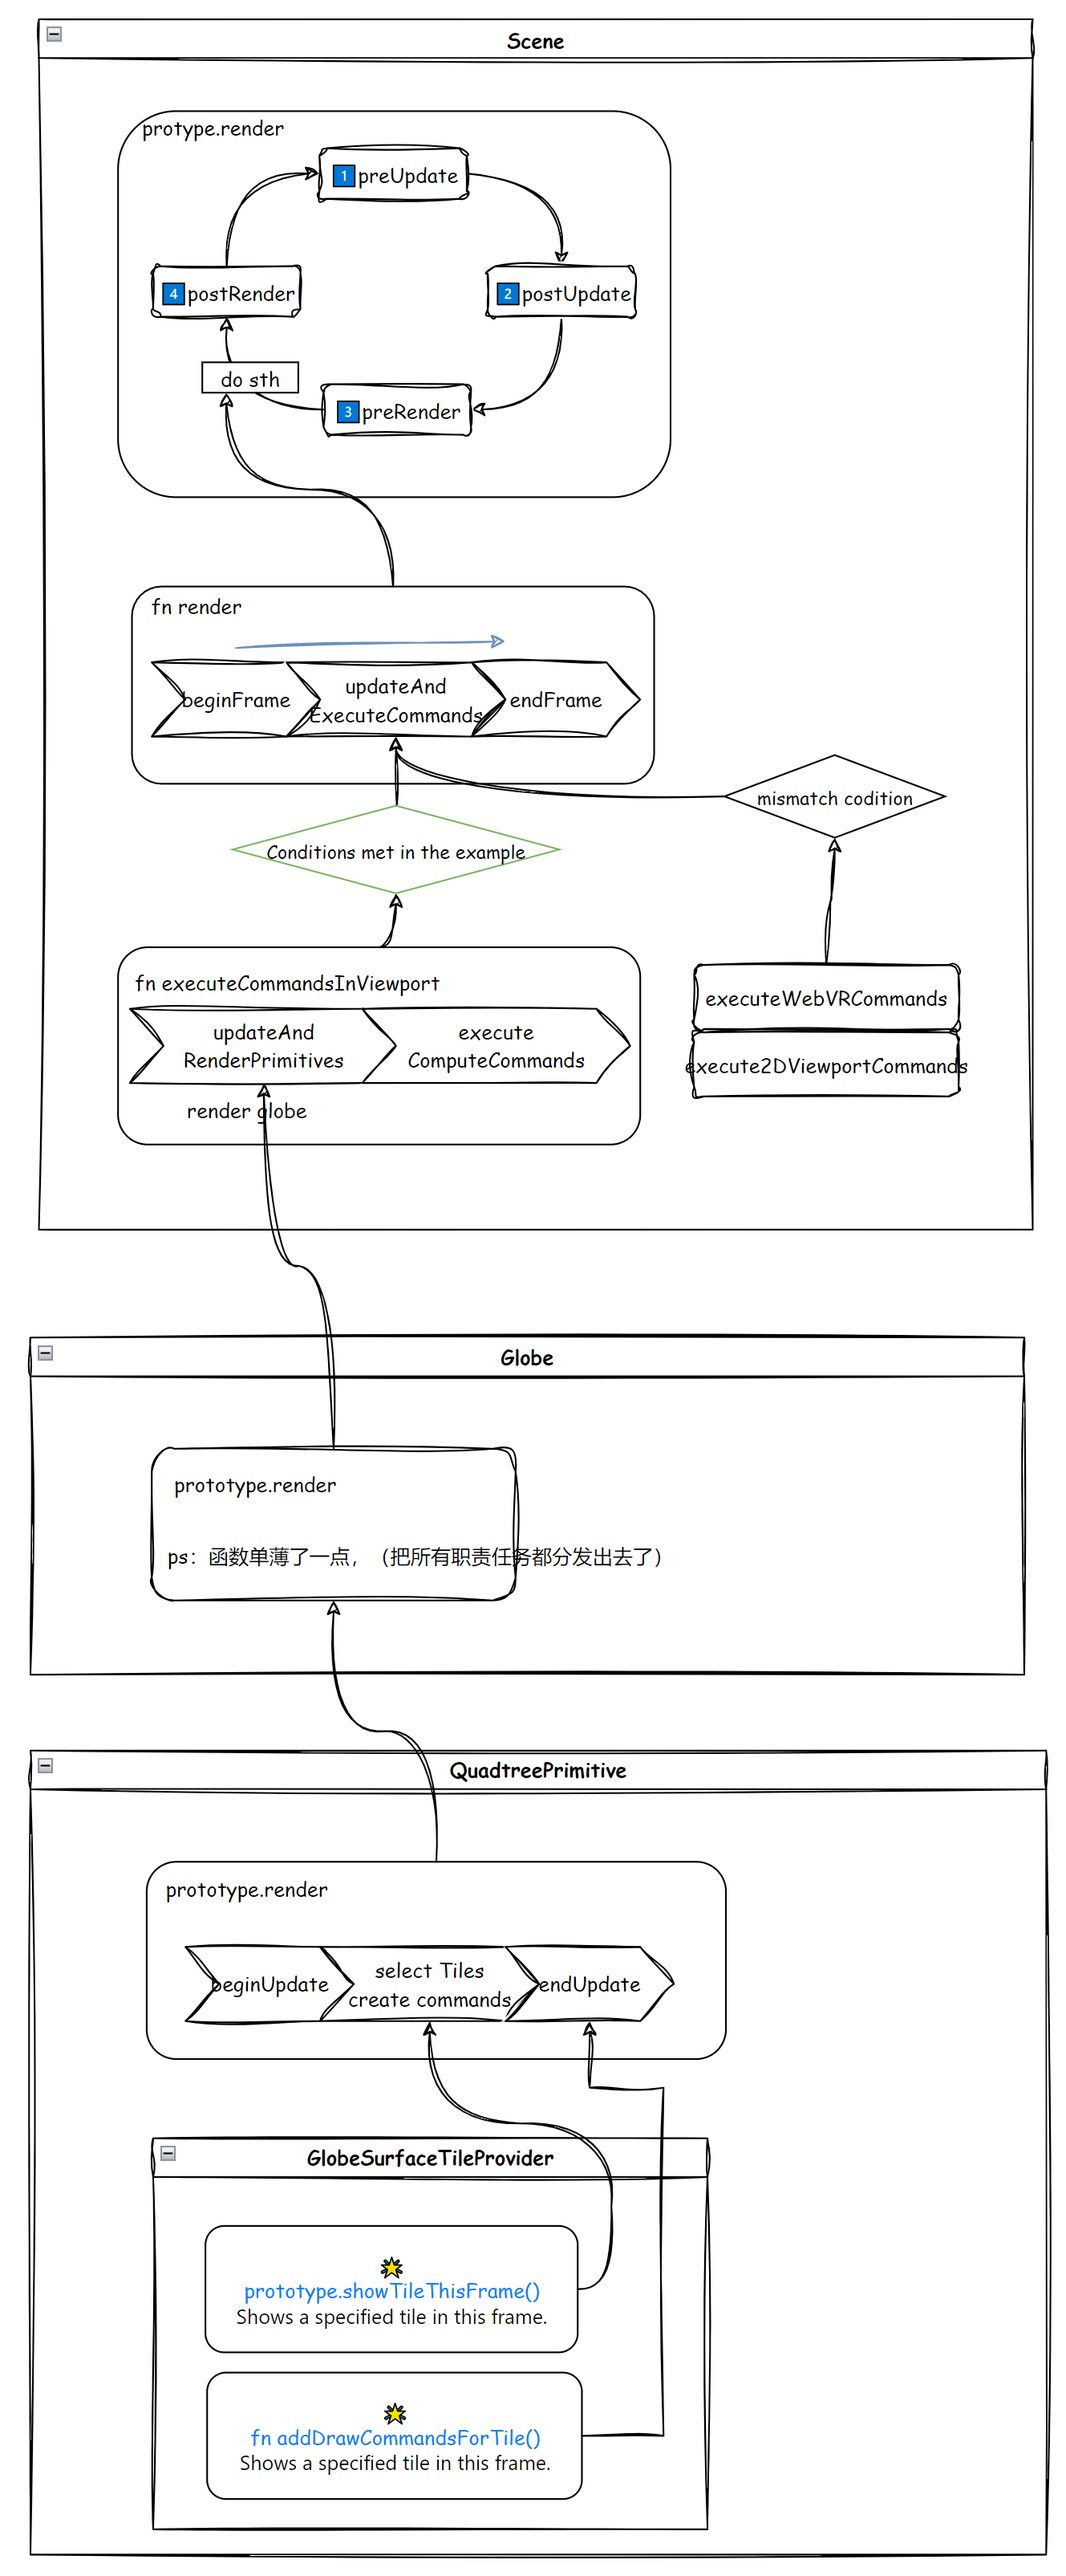
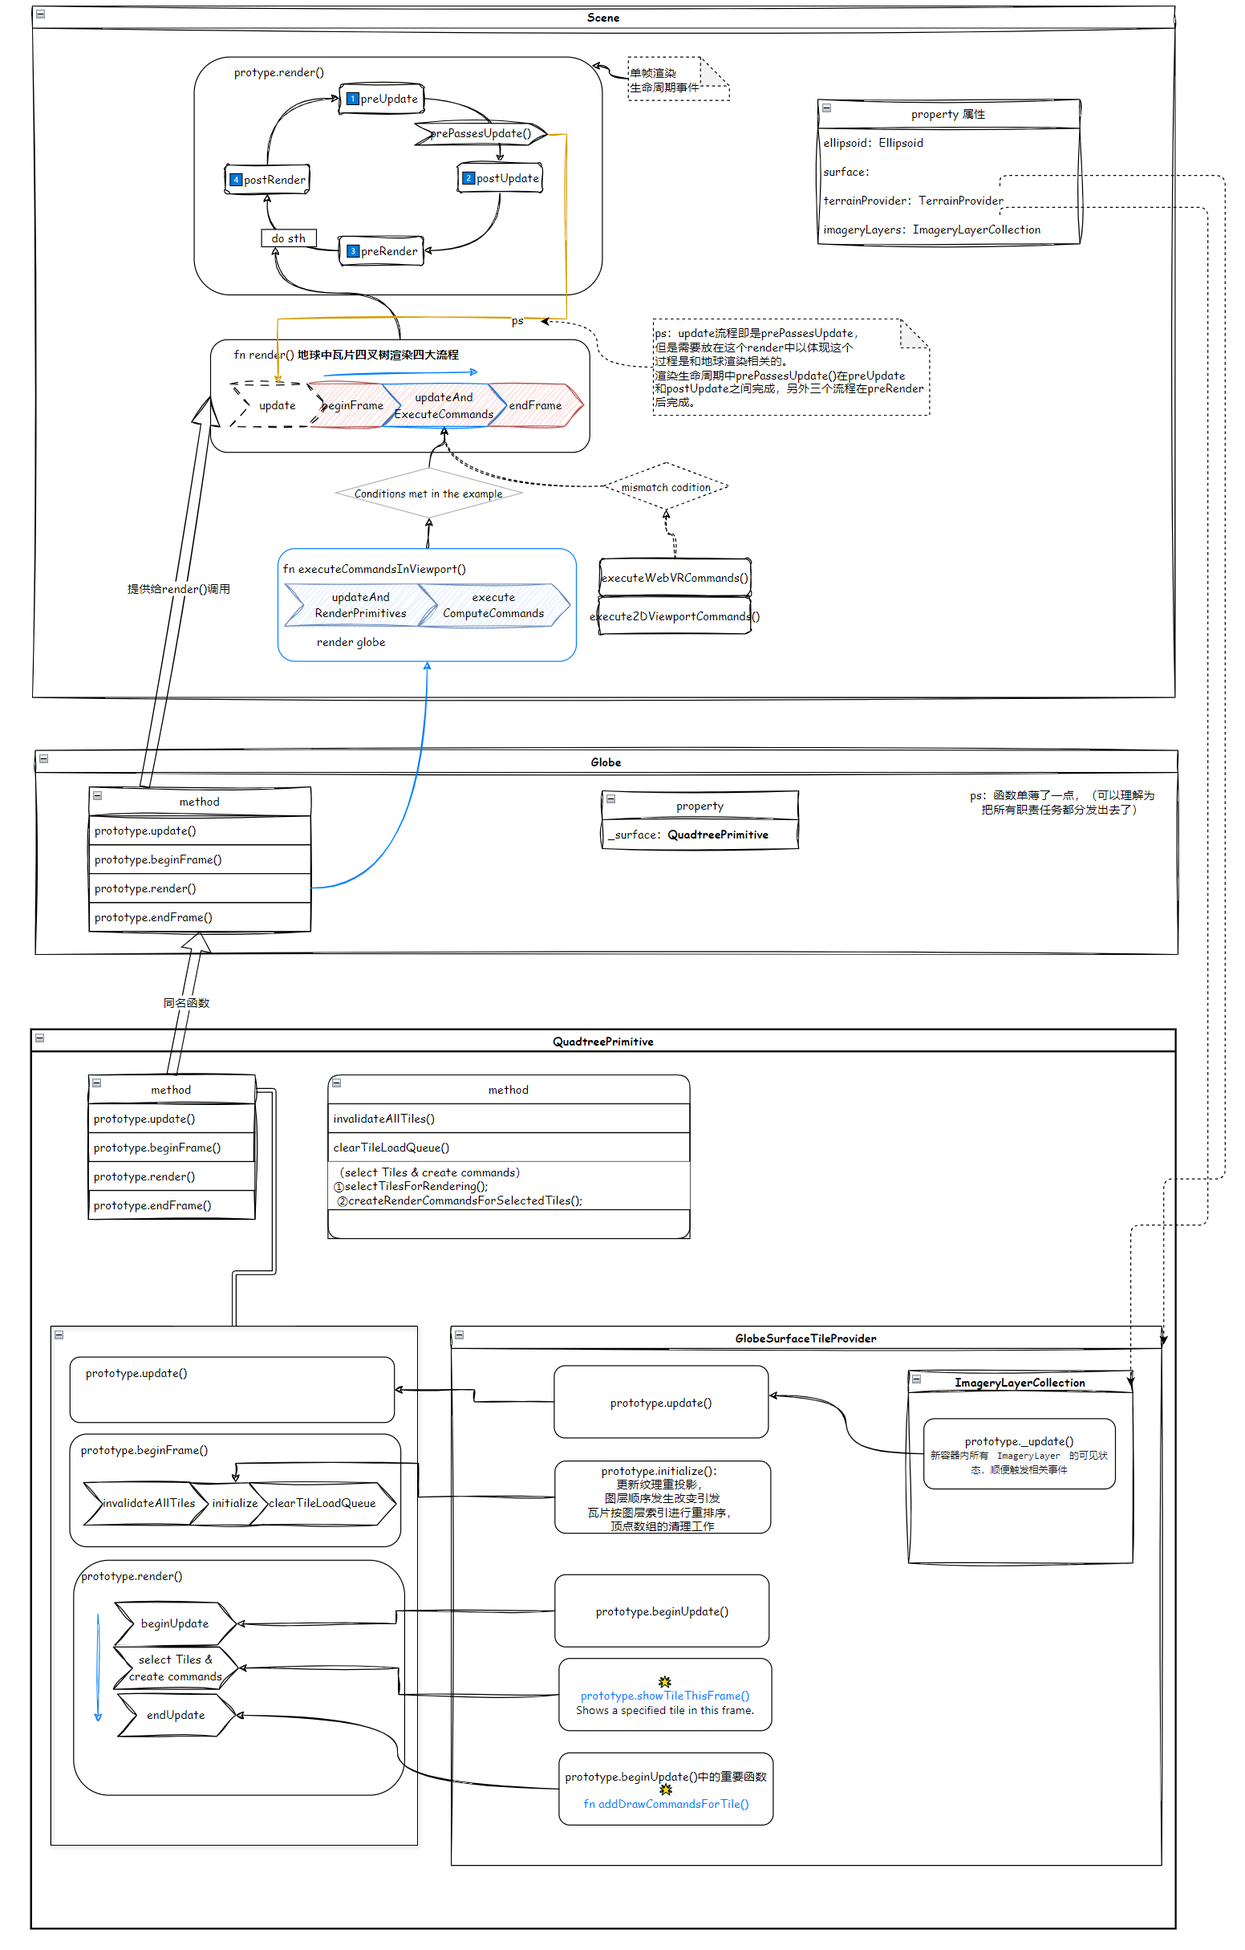
docs: 更新02篇章

diff --git a/README.md b/README.md
@@ -295,7 +295,7 @@ Cesium 的渲染循环，是在实例化 `Viewer` 时实例化了 `CesiumWidget`
 
 得找到哪些类是用于绘制地球的。
 
-从 scene 类出发，因为它是单帧渲染的起始，它原型上的 render 方法划分了生命周期事件，并在这些事件中间穿插了具体的用于渲染地球或者实体的函数，统一放在了函数 render 里，同时也穿插做了其他事情，但目前我们还不清楚，暂且不讨论。
+从 scene 类出发，因为它是单帧渲染的起始，它原型上的 render 方法划分了生命周期事件，并在这些事件中间穿插了具体的用于渲染地球或者实体的函数，统一放在了函数 render 里，同时也穿插做了其他事情，下面探讨一下。
 
 <img src="https://github.com/githubli1123/CesiumExampleCollection/blob/main/Img/02Cesium%E7%9A%84%E5%9C%B0%E7%90%83%E6%B8%B2%E6%9F%93%E8%BF%87%E7%A8%8B/%E6%B8%B2%E6%9F%93%E5%9C%B0%E7%90%83%E7%9A%84%E4%B8%89%E4%B8%AA%E9%87%8D%E8%A6%81%E9%98%B6%E6%AE%B5-%E8%AF%A5%E5%9B%BE%E7%89%87%E5%8F%AF%E5%9C%A8%E8%AF%A5%E9%A1%B9%E7%9B%AE%E4%B8%AD%E6%89%BE%E5%88%B0.png?raw=true" alt="渲染地球的三个重要阶段-该图片可在该项目中找到"  />
 
@@ -303,7 +303,7 @@ Cesium 的渲染循环，是在实例化 `Viewer` 时实例化了 `CesiumWidget`
 
 站在渲染责任角度看待这个过程？
 
-
+beginFrame是准备阶段，
 
 站在UML时序图看待这个过程？
 
@@ -403,5 +403,97 @@ beginFrame阶段的【？解析和投影】准备：
 那么好，现在找到了渲染地球的函数方法 `Globe.prototype.render` ，渲染职责给到了 Globe ，_material 和 _surface 这两个代表了什么？
 
 ```
-_material 涉及 makeShadersDirty 函数
+1. _material 初始化是 undefined， 会涉及 makeShadersDirty 函数
+getter 和 setter：获取或设置地球的材质外观。这可以是多个内置 Material 对象之一，也可以是使用 Fabric 编写脚本的自定义材质。
+material: {
+  get: function () {
+    return this._material;
+  },
+  set: function (material) {
+    if (this._material !== material) {
+      this._material = material;
+      makeShadersDirty(this);
+    }
+  },
+},
+
+2. _surface 初始化是 QuadtreePrimitive 实例
 ```
+
+由此可见，重要的不可或缺的是 _surface 属性。
+
+分为三个阶段：
+
+1  tileProvider.beginUpdate
+
+2  selectTilesForRendering(); createRenderCommandsForSelectedTiles();
+
+3  tileProvider.endUpdate
+
+```
+
+一阶段  这段代码是 GlobeSurfaceTileProvider 对象的 beginUpdate 方法，它在开始更新地球表面瓦片的过程中执行以下操作：
+
+1 清空 tilesToRenderByTextureCount 中的瓦片列表：
+遍历 tilesToRenderByTextureCount 数组，对每个纹理贴图数量对应的瓦片列表进行清空操作。
+这样做是为了准备接收新一轮更新后的瓦片数据。
+
+2 更新裁剪平面：
+如果存在裁剪平面，并且已启用，则调用 clippingPlanes.update(frameState) 方法更新裁剪平面。
+裁剪平面用于在渲染过程中对瓦片进行裁剪，以提高渲染性能或实现特定效果。
+
+3 重置已使用的绘制命令数目：
+将 _usedDrawCommands 属性重置为 0。
+这个属性用于记录当前帧已经使用的绘制命令数量，重置为 0 表示开始了新一轮的绘制过程。
+
+4 重置已加载的瓦片和填充瓦片的标志位：
+将 _hasLoadedTilesThisFrame 和 _hasFillTilesThisFrame 标志位都设置为 false。
+这两个标志位用于记录当前帧是否已经加载了瓦片或填充了瓦片，重置为 false 表示开始了新的渲染过程，需要重新记录。
+```
+
+```
+二阶段   createRenderCommandsForSelectedTiles();重要函数🌟showTileThisFrame(tile, frameState)：
+这个重要函数的作用：在这一帧中 指定 需要显示的tile。provider（GlobeSurfaceTileProvider）可以通过 将渲染命令添加到命令列表的操作 来显示tile，或者使用任何其他适当的方法。只有该方法在下一帧也被调用，该tile在下一帧才会可见。
+
+```
+
+```
+三阶段  这段代码是 `GlobeSurfaceTileProvider` 对象的 `endUpdate` 方法，它在地球表面瓦片更新周期结束后执行以下操作：
+
+1. **初始化渲染状态**：
+   - 如果当前没有定义渲染状态 (`this._renderState`)，则根据配置创建渲染状态。
+   - 创建的渲染状态包括：启用剔除、启用深度测试、设置深度测试函数等。
+
+2. **根据当前帧的加载和填充瓦片情况，更新填充瓦片的高度**：
+   - 如果当前帧同时存在加载的瓦片和填充的瓦片，则需要将加载的瓦片的高度信息传递给填充的瓦片。
+   - 调用 `TerrainFillMesh.updateFillTiles` 方法更新填充瓦片的高度信息。
+
+3. **处理垂直夸张变化**：
+   - 检测垂直夸张是否发生了变化，如果发生了变化，则需要更新加载的瓦片的地形夸张效果。
+   - 遍历加载的瓦片，调用 `updateExaggeration` 方法更新瓦片的地形夸张效果。
+
+4. **生成绘制命令**：🌟
+   - 根据瓦片的纹理数量和加载状态，为每个瓦片生成绘制命令，并添加到渲染命令列表中。
+   - 遍历 `tilesToRenderByTextureCount` 数组，对每个纹理贴图数量对应的瓦片列表进行处理，为每个瓦片生成绘制命令，并更新当前帧的最小地形高度。
+```
+
+
+
+<img src="https://github.com/githubli1123/CesiumExampleCollection/blob/main/Img/02Cesium%E7%9A%84%E5%9C%B0%E7%90%83%E6%B8%B2%E6%9F%93%E8%BF%87%E7%A8%8B/%E4%B8%80%E6%AD%A5%E4%B8%80%E6%AD%A5%E6%89%BE%E5%88%B0%E5%9C%B0%E7%90%83%E6%B8%B2%E6%9F%93%E7%9B%B8%E5%85%B3%E5%87%BD%E6%95%B0-%E8%AF%A5%E5%9B%BE%E5%8F%AF%E5%9C%A8%E8%AF%A5%E9%A1%B9%E7%9B%AE%E4%B8%AD%E6%89%BE%E5%88%B0.png?raw=true" style="zoom:67%;" />
+
+
+
+```js
+  this._surface = new QuadtreePrimitive({
+    tileProvider: new GlobeSurfaceTileProvider({
+      terrainProvider: terrainProvider,
+      imageryLayers: imageryLayerCollection,
+      surfaceShaderSet: this._surfaceShaderSet,
+    }),
+  });
+```
+
+
+
+
+
